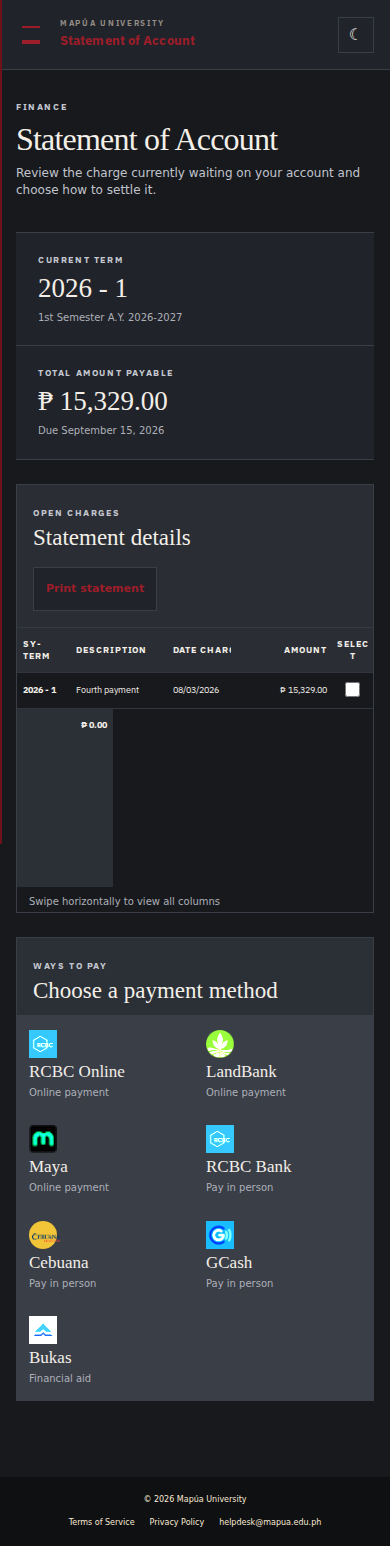
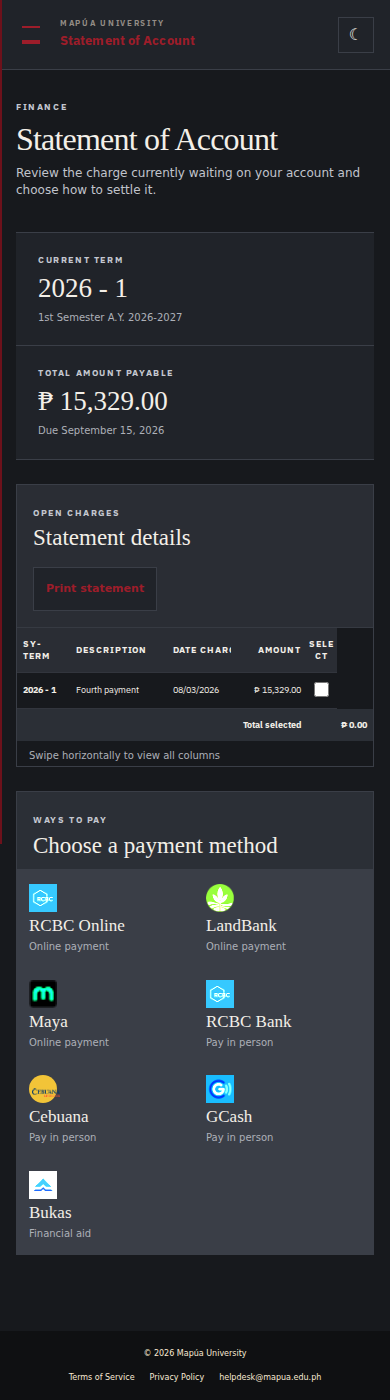
Fix no-swipe mobile finance and curriculum tables

diff --git a/mobile-fixes.css b/mobile-fixes.css
@@ -1187,26 +1187,6 @@ html[data-theme="dark"] .content.schedule-full-view .schedule-table .class-block
       text-align: right !important;
     }
 
-    .content .soa-table table .table-total {
-      display: grid !important;
-      grid-template-columns: minmax(0, 1fr) 96px !important;
-      width: 100% !important;
-    }
-
-    .content .soa-table table .table-total td:first-child {
-      grid-column: 1;
-      width: auto !important;
-    }
-
-    .content .soa-table table .table-total td.amount {
-      grid-column: 2;
-      width: auto !important;
-    }
-
-    .content .soa-table table .table-total td:nth-child(3) {
-      display: none !important;
-    }
-
     .content .payment-options .table-title {
       padding-bottom: 10px;
     }
@@ -1272,6 +1252,29 @@ html[data-theme="dark"] .content.schedule-full-view .schedule-table .class-block
       background: transparent;
       color: var(--ink);
       border-color: var(--rule);
+    }
+  }
+
+  @media (max-width: 360px) {
+    .content .soa-table table thead th:nth-child(3),
+    .content .soa-table table tbody td:nth-child(3) {
+      display: none !important;
+    }
+
+    .content .soa-table table th:nth-child(1),
+    .content .soa-table table td:nth-child(1) { width: 55px !important; }
+    .content .soa-table table th:nth-child(2),
+    .content .soa-table table td:nth-child(2) { width: auto !important; }
+    .content .soa-table table th:nth-child(5),
+    .content .soa-table table td:nth-child(5) {
+      width: 80px !important;
+      min-width: 80px !important;
+    }
+    .content .soa-table table th:nth-child(6),
+    .content .soa-table table td:nth-child(6) {
+      width: 30px !important;
+      min-width: 30px !important;
+      max-width: 30px !important;
     }
   }
 

diff --git a/script.js b/script.js
@@ -412,6 +412,10 @@ function bindActions() {
   const statement = document.querySelector('.soa-table');
   if (statement) {
     const total = statement.querySelector('.table-total .amount');
+    if (total) {
+      total.colSpan = 2;
+      total.nextElementSibling?.remove();
+    }
     statement.querySelectorAll('input[type="checkbox"]').forEach((checkbox) => checkbox.addEventListener('change', () => {
       const selectedAmount = [...statement.querySelectorAll('input[type="checkbox"]:checked')].reduce((sum, item) => {
         const amount = item.closest('tr').querySelector('.amount').textContent.replace(/[^0-9.]/g, '');
